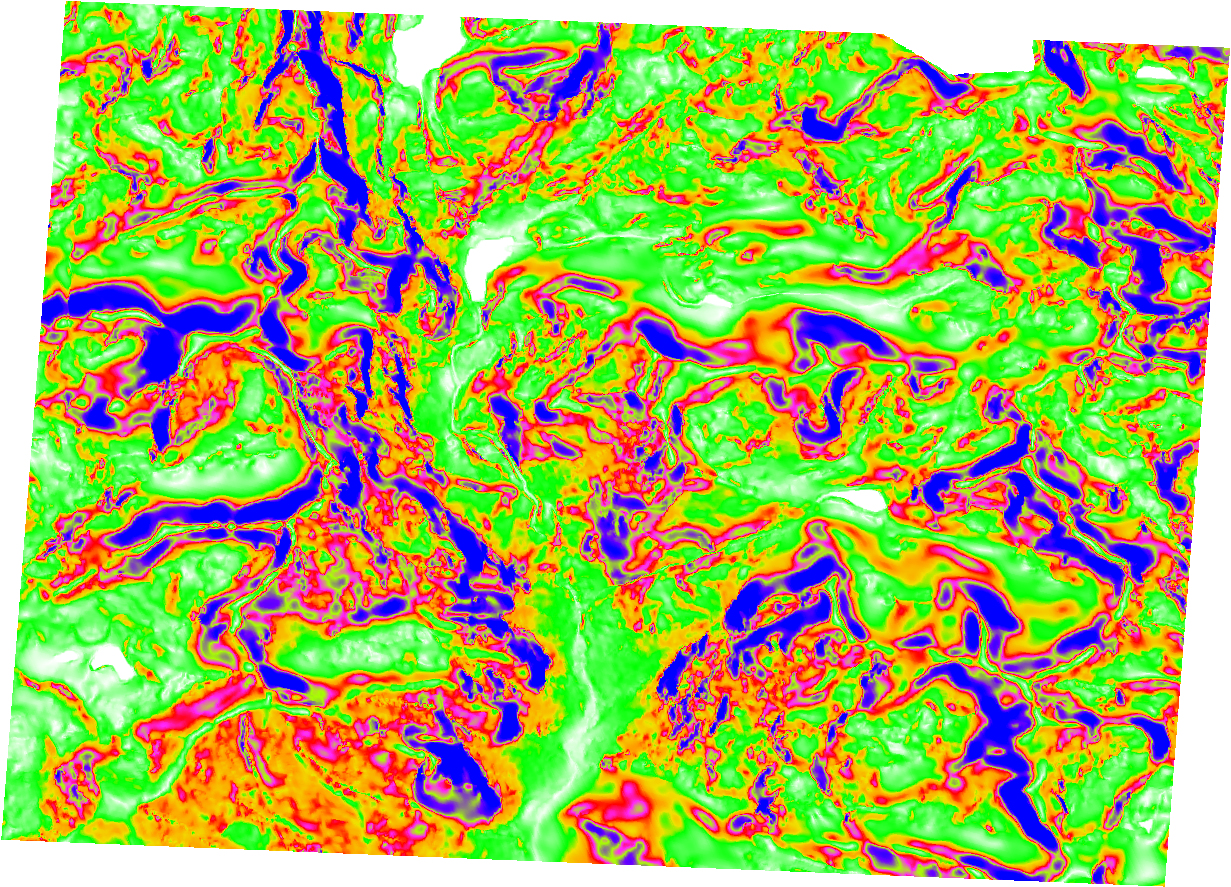
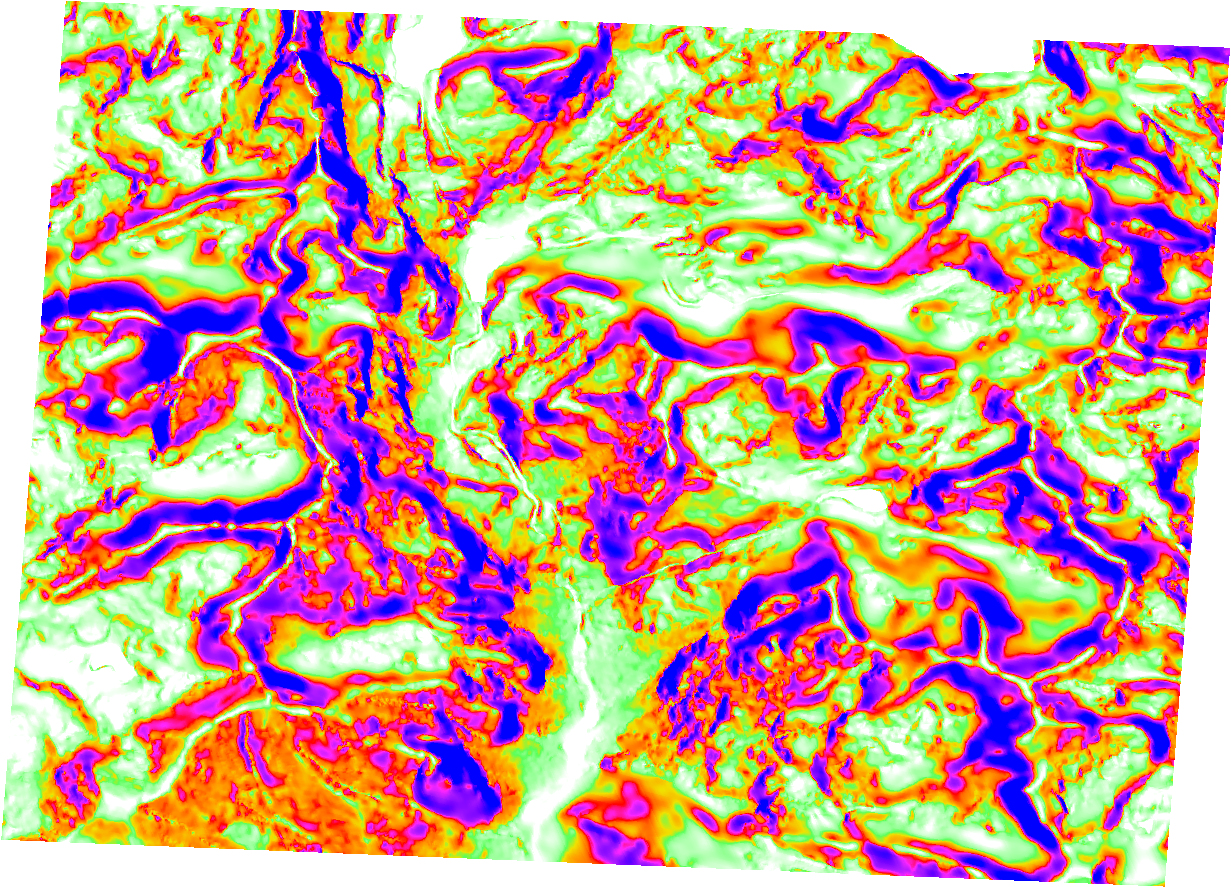
Fix Oslo wgs slope img

diff --git a/development/202101-IGN-data-gdaldem.md b/development/202101-IGN-data-gdaldem.md
@@ -199,7 +199,7 @@ This maps could benefit from the more precise contour lines/relief:
 
 * [OpenSlopeMap](https://www.openslopemap.org/projekt/hintergrundinformationen/)
 * OpenAndroMaps [Elevate](https://www.openandromaps.org/en/legend/elevate-mountain-hike-theme) based on [MapsForge](https://wiki.openstreetmap.org/wiki/Mapsforge)
-* OpenTopoMap (on [github](https://github.com/der-stefan/OpenTopoMap/tree/master/mapnik)) [2]
+* OpenTopoMap (on [github](https://github.com/der-stefan/OpenTopoMap/tree/master/mapnik))
 * OpenHikingMap / [maps.refuges.info](https://wiki.openstreetmap.org/wiki/Hiking/mri)
 * ThunderForest Topo / OpenCycleMap / my.viewranger.com (private)
 * [MapTiler Topo](https://www.maptiler.com/maps/#topo) (based on OpenTilesMap but Topo is private)
